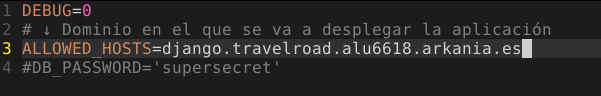
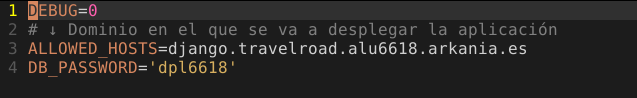
DPL - A2

Changed region(s): [[0.0, 0.2188, 0.9285, 0.8125], [0.0, 0.0, 0.1797, 0.2188]]

diff --git a/Asignaturas/DPL/UT4-TE2/README.md b/Asignaturas/DPL/UT4-TE2/README.md
@@ -384,8 +384,6 @@ ssh arkania "
 "
 ```
 
-Le damos permisos de ejecución y lo probamos
-
 ## Spring - Aplicación
 
 [Travel Road - Spring](https://spring.travelroad.alu6618.arkania.es/)
@@ -402,43 +400,121 @@ Le damos permisos de ejecución y lo probamos
 
 ## RoR - Instalación
 
-## RoR - Creando Aplicación
-
-## RoR - Lógica de negocio
-
-## RoR - Configuración Nginx
-
-## RoR - Resultados
+Para trabajar con **Ruby on Rails** primero necesitamos el Ruby Version Manager que nos permite gestionar, instalar y trabajar con múltiples entornos de **Ruby**. Nuestro primer paso será añadir las claves GPG y luego lanzar el script de instlación 
 
 ![](screenshots/rubyrails/0.png)
 ![](screenshots/rubyrails/1.png)
+
+Comprobamos que todo ha ido bien lanzando el comando `rvm --version` y si nos muestra la versión entonces ya podemos empezar a instalar **Ruby** usando **RVM**
+
 ![](screenshots/rubyrails/2.png)
-![](screenshots/rubyrails/3.png)
+
+Tras instalar *Ruby* establecemos la versión por defecto y comprobamos la version tanto de Ruby como de **Gem**, el gestor de paquetes
+
 ![](screenshots/rubyrails/4.png)
+
+Ahora mediante Gem, instalamos **Ruby on Rails** y comprobamos la versión para ver si lo hemos instalado con éxito.
+
 ![](screenshots/rubyrails/5.png)
 ![](screenshots/rubyrails/6.png)
+
+Para pasos posteriores tenemos que instalar un par de paquetes en el sistema, en este caso para acceso a base de datos **PostgreSQL**
+
 ![](screenshots/rubyrails/7.png)
+
+## RoR - Creando Aplicación
+
+Ya una vez todo configurado y descargado podemos empezar a crear nuestra aplicación en *RoR*, por lo tanto empezamos creando el andamieaje de nuestro proyecto indicando la base de datos que usaremos.
+
 ![](screenshots/rubyrails/8.png)
+
+Tras la creación debemos borrar *.git* dentro de la carpeta del proyecto ya que para luego subir los cambios a nuestro repositorio, nos daría conflicto. 
+
+Luego configuramos las credenciales para poder acceder a la base de datos.
+
 ![](screenshots/rubyrails/10.png)
+
+Luego probamos que todo funciona lanzando la aplicación con el siguiente comando y luego iremos a nuestro navegador y entraremos a *localhost:3000* ya que es donde nuestra aplicación esta funcionando.
+
 ![](screenshots/rubyrails/11.png)
 ![](screenshots/rubyrails/12.png)
+
+## RoR - Lógica de negocio
+
+Ahora empezaremos a crear la aplicación.
+
+Lo primero que editaremos serán las ruta, lo cual cargará la vista dependiendo en que ruta estemos.
+
 ![](screenshots/rubyrails/13.png)
+
+Luego creamos el modelo mediante la herramienta que nos proporciona *RoR*
+
 ![](screenshots/rubyrails/14.png)
+
+Ahora nuestro siguiente paso será el controlador, nuestro código base será creado, como hicimos anteriormente, mediante las herramientas que nos proporciona *RoR*
+
 ![](screenshots/rubyrails/15.png)
+
+Aquí definimos que consulta realizaremos
+
 ![](screenshots/rubyrails/16.png)
+
+Lo único que nos quedaría sería crear las vistas, tanto para *visited*,*wished* y *index*
+
+### Index
+
 ![](screenshots/rubyrails/17.png)
+
+### Wished
+
 ![](screenshots/rubyrails/18.png)
+
+### Visited
+
 ![](screenshots/rubyrails/19.png)
+
+Una vez creadas las vistas, modificamos el fichero *config/environments/development.rb* y deshabilitamos las migraciones ya que tenemos una base de datos y tabla ya creadas.
+
 ![](screenshots/rubyrails/20.png)
+
+Ahora solo queda probar la aplicación levantando el servidor en desarrollo (`bin/rails server`)
+
 ![](screenshots/rubyrails/21.png)
+
+## RoR - Configuración Nginx
+
+Para conectar Nginx con Ruby on Rails necesitamos el módulo **Passanger**
+
 ![](screenshots/rubyrails/22.png)
+
+Luego instalaremos las dependencias del módulo para el proceso de compilación de después.
+
 ![](screenshots/rubyrails/23.png)
 ![](screenshots/rubyrails/24.png)
+
+Para poder compilar el módulo, descargaremos la versión de Nginx que tengamos instalada en nuestro sistema y compilamos y creamos el módulo.
+
 ![](screenshots/rubyrails/25.png)
+
+Cuando termine nos creará un fichero llamado `ngx_http_passenger_module.so` lo cual copiamos y pegamos en la carpeta donde se cargan los módulos de Nginx y configuramos */etc/nginx/nginx.conf* para que cargue el módulo de **Passanger**
+
 ![](screenshots/rubyrails/26.png)
+
+El siguiente paso será conseguir la ruta raíz del **Passanger** y volvemos a editar el */etc/nginx/nginx.conf* en este caso añadiendo el *passenger_root* dentro del bloque *http{ }*
+
 ![](screenshots/rubyrails/27.png)
+
+Comprobamos la sintaxis de nuestras modificaciones con `sudo nginx -t`, si todo esta correcto procedemos a configurar nuestro host virtual en desarrollo.
+
 ![](screenshots/rubyrails/28.png)
+
+Y por último probar en local si todo ha ido bien
+
 ![](screenshots/rubyrails/29.png)
+
+## RoR - Resultados
+
+Lamentablemente no podremos desplegarla en producción ya que la máquina no tiene la suficiente la capacidad para realizar algunos de los pasos anterior y por lo tanto peta. 
 
 
 # Django
@@ -446,7 +522,6 @@ Le damos permisos de ejecución y lo probamos
 ## Django - Índice
 
 - [Instalación](#django---instalación---instalación)
-- [Creación del Proyecto](#django---creación-del-proyecto)
 - [Código de Aplicación](#django---código-de-aplicación)
 - [Entorno de Producción](#django---entorno-de-producción)
 - [Script Despliegue](#django---script-de-despliegue)
@@ -454,48 +529,152 @@ Le damos permisos de ejecución y lo probamos
 
 ## Django - Instalación
 
-## Django - Creación del proyecto
+Nuestro último framework será **Django**, escrito en **Python**.
+
+Si no tienen **Python** instalado, lo mejor será instalarlo primero para poder seguir, en caso contrario creamos y activamos un entorno virtual para aislar las dependencias de nuestro proyecto.
+
+Para crear el entorno virtual lanzamos el siguiente comando y luego lo activamos:
+
+`python -m venv --prompt travelroad .venv`
+
+![](screenshots/django/0.png)
+
+Una vez activado, instalamos Django mediante el gestor de paquetes **pip** y comprobamos la versión de Django para comprobar que todo se ha instalado con éxito
+
+![](screenshots/django/1.png)               
+![](screenshots/django/2.png)
+
+Creamos nuestro proyecto mediante la herramienta *django-admin* que nos proporciona la creación de la estructura de nuestro proyecto.
+
+![](screenshots/django/3.png)
+
+Como prueba iniciamos el servidor de desarrollo con la herramienta *manage.py* y accedemos al *localhost:8000*.
+
+![](screenshots/django/4.png)
 
 ## Django - Código de aplicación
 
-## Django - Entorno de producción
+Ya que un proyecto en Django esta formado por "aplicaciones", crearemos nuestra aplicación.
 
-## Django - Script de despliegue
-
-## Django - Aplicacion
-
-![](screenshots/django/0.png)
-![](screenshots/django/1.png)               
-![](screenshots/django/2.png)
-![](screenshots/django/3.png)
-![](screenshots/django/4.png)
 ![](screenshots/django/5.png)
+
+Para que Django sea consciente de nuestra aplicación, la añadimos a `main/settings.py`:
+
 ![](screenshots/django/6.png)
+
+Si queremos tener acceso a nuestra base de datos instalaremos un paquete llamado *psycopg* el cual permite conectar Python con PostgreSQL
+
 ![](screenshots/django/7.png)
+
+Añadimos las credenciales para conectar con nuestra base de datos.
+
 ![](screenshots/django/8.png)
+
+Comprobamos que la sintaxis de nuestros cambios fue correcta mediante:
+
 ![](screenshots/django/9.png)
+
+Ahora creamos el modelo de lugares:
+
 ![](screenshots/django/10.png)
+
+Creamos la vista que gestionará las peticiones:
+
 ![](screenshots/django/11.png)
+
+Y a continuación creamos las plantillas de nuestra aplicación:
+
 ![](screenshots/django/12.png)
 ![](screenshots/django/12visited.png)
 ![](screenshots/django/12wished.png)
+
+Para que se muestre estas plantillas, necesitamos vincular cada URL con la vista que la gestionará.
+
 ![](screenshots/django/13.png)
+
+Y ahora enlazamos las URLs desde el fichero principal:
+
 ![](screenshots/django/14.png)
+
+Ahora probamos nuestra aplicación en local para comprobar que todo funciona perfectamente.
+
 ![](screenshots/django/15.png)
 ![](screenshots/django/15visited.png)
 ![](screenshots/django/15wished.png)
+
+Como último paso queremos que las credenciales de la base de datos sea un elemento configurable dependiendo de en que entorno estemos trabajando, por lo tanto instalaremos el paquete *prettyconf*, mediante el comando `pip install prettyconf`, para cargar variables de entorno mediante un fichero de configuración.
+
+Para que el *prettyconf* funcione modificamos el fichero `main/settings.py` de tal manera:
+
+![Alt text](screenshots/django/15.1.png)
+![Alt text](screenshots/django/15.2.png)
+
+## Django - Entorno de producción
+
+En producción pasaremos nuestros cambios desde local mediante un `git pull` evitando que se envie el entorno virtual. Por lo tanto tenemos que crearlo en producción y activarlo. Una vez creado y activado realizamos un *pip install -r* de un archivo de texto que hemos llamado *requirements.txt* el cual debemos añadir todas las dependencias que hemos instalado anteriormente.
+
 ![](screenshots/django/16.png)
+
+Crearemos un archivo *.env* con las credenciales de la base de datos. Este archivo quedara fuera del control de versiones.
+
 ![](screenshots/django/17.png)
+
+Para poder desplegar la aplicación en Django instalamos *gunicorn*, como servidor **WSGI** *(Web Server Gateway Interface)*, y lanzamos un script de gestión que nos permite lanzar el servidor.
+
 ![](screenshots/django/18.png)
+
+Para poder gestionar el servidor WSGI y mantenerlo activo instalaremos un sistema cliente/servidor llamado  **Supervisor**, si todo fue bien buscaremos el servicio de Supervisor mediante *systemctl*
+
 ![](screenshots/django/19.png)
+
+Supervisor viene con la herramienta *supervisorctl*, pero no tendremos los permisos necesarios para usarla:
+
 ![](screenshots/django/20.png)
+
+Por lo tanto añadimos el grupo *supervisor* mediante `sudo groupadd supervisor` y editamos la configuración:
+
 ![](screenshots/django/21.png)
+
+Reiniciamos el servicio para que los cambios se apliquen y añadimos a nuestro usuario al grupo de *supervisor*
+
 ![](screenshots/django/22.png)
+
+Cerraremos sesión y volveremos a entrar para que los cambios surtan efecto y como podemos ver ya tenemos los permisos necesarios para usar la herramienta *supervisorctl*
+
 ![](screenshots/django/23.png)
+
+Luego creamos un script de servicio para levantar *gunicorn*
+
 ![](screenshots/django/24.png)
+
+y creamos la configuración de un proceso supervisor que lance el servicio WSGI para la aplicación Django.
+
 ![](screenshots/django/25.png)
+
+Añadimos este proceso:
+
 ![](screenshots/django/26.png)
+
+Y por último creamos el host virtual de Nginx y probamos la aplicación:
+
 ![](screenshots/django/27.png)
+
+Si todo funciona correctamente usaremos certbot para que nuestra aplicación tenga la certificación:
+
+![](screenshots/django/29.png)
+
+## Django - Script de despliegue
+
+Creamos el script de despliegue:
+
+![](screenshots/django/28.png)
+
+
+## Django - Aplicacion
+
+[Travel Road - Django](https://django.travelroad.alu6618.arkania.es)
+
+
 
 
 ---
